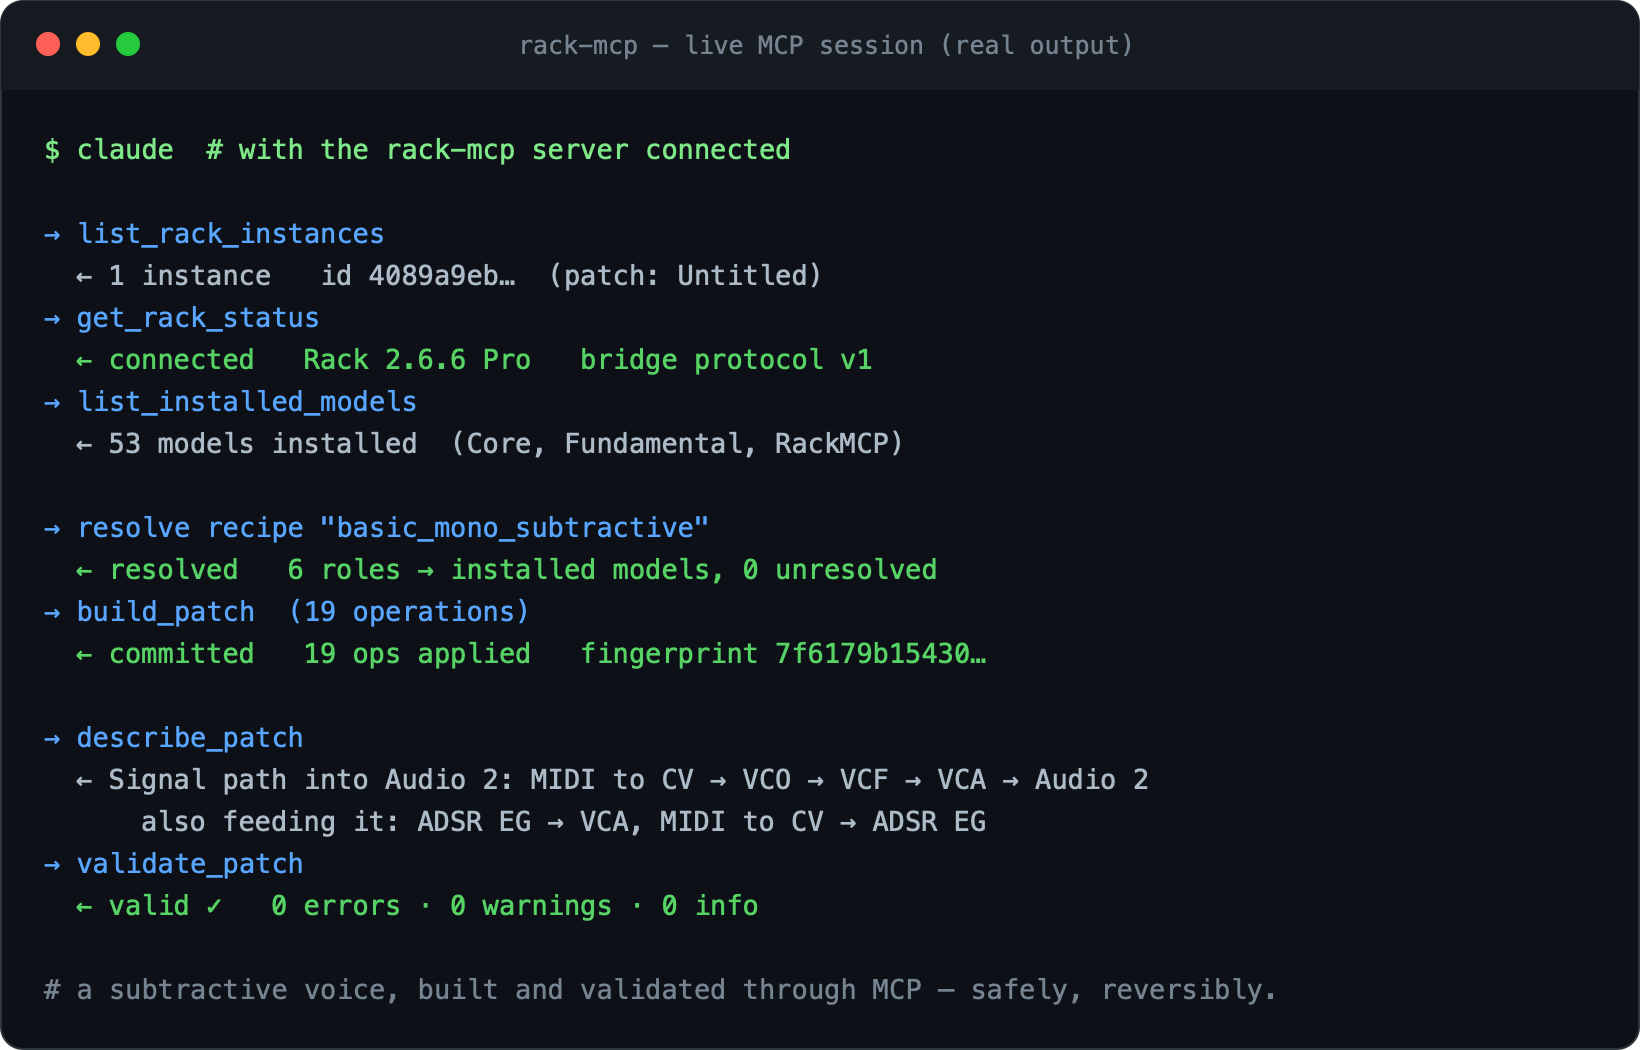
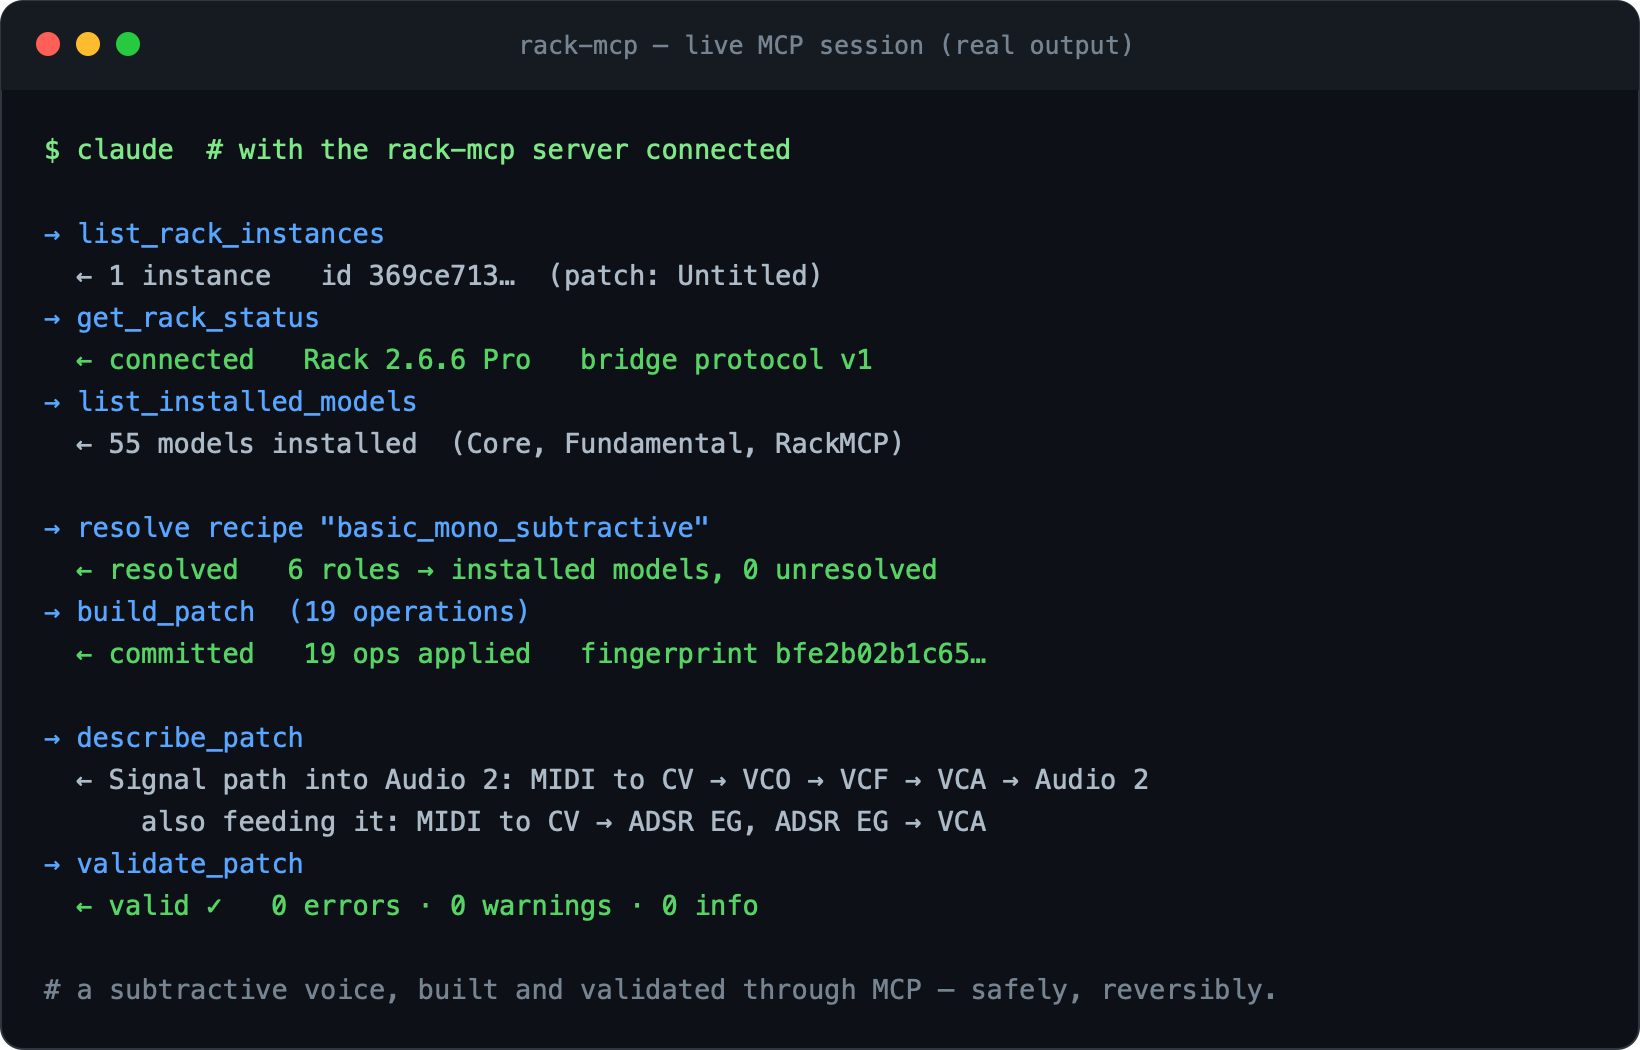
test-client: compare the server path without assuming a separator
The test guarding defaultServerEntry against percent-encoding asserted
`entry.endsWith("apps/mcp-server/dist/index.js")`. fileURLToPath returns
backslashes on Windows, so it passed on macOS and Linux and reddened only
the TypeScript (windows-latest) job -- a test about paths that was itself
wrong about paths.

Compare the last four segments split on either separator. Verified against
a literal `D:\a\...\index.js` as well as the POSIX form; both normalise to
the same string.

Changed region(s): [[0.2488, 0.7619, 0.622, 0.7924], [0.4665, 0.6095, 0.5909, 0.64], [0.2177, 0.2438, 0.311, 0.2743]]

diff --git a/packages/test-client/test/results.test.ts b/packages/test-client/test/results.test.ts
@@ -111,6 +111,9 @@ describe("defaultServerEntry", () => {
     const entry = defaultServerEntry();
     expect(entry).not.toContain("%20");
     expect(entry).not.toContain("%");
-    expect(entry.endsWith("apps/mcp-server/dist/index.js")).toBe(true);
+    // Compared separator-agnostically: fileURLToPath returns backslashes on
+    // Windows, so asserting an endsWith on a "/" path reds in the win-latest
+    // TypeScript job only -- which is exactly how this test first failed.
+    expect(entry.split(/[\\/]/).slice(-4).join("/")).toBe("apps/mcp-server/dist/index.js");
   });
 });

diff --git a/README.md b/README.md
@@ -36,20 +36,20 @@ MCP against a running Rack instance. This is **real tool output**, captured by
 $ claude  # with the rack-mcp server connected
 
 → list_rack_instances
-  ← 1 instance   id 4089a9eb…  (patch: Untitled)
+  ← 1 instance   id 369ce713…  (patch: Untitled)
 → get_rack_status
   ← connected   Rack 2.6.6 Pro   bridge protocol v1
 → list_installed_models
-  ← 53 models installed  (Core, Fundamental, RackMCP)
+  ← 55 models installed  (Core, Fundamental, RackMCP)
 
 → resolve recipe "basic_mono_subtractive"
   ← resolved   6 roles → installed models, 0 unresolved
 → build_patch  (19 operations)
-  ← committed   19 ops applied   fingerprint 7f6179b15430…
+  ← committed   19 ops applied   fingerprint bfe2b02b1c65…
 
 → describe_patch
   ← Signal path into Audio 2: MIDI to CV → VCO → VCF → VCA → Audio 2
-      also feeding it: ADSR EG → VCA, MIDI to CV → ADSR EG
+      also feeding it: MIDI to CV → ADSR EG, ADSR EG → VCA
 → validate_patch
   ← valid ✓   0 errors · 0 warnings · 0 info
 
